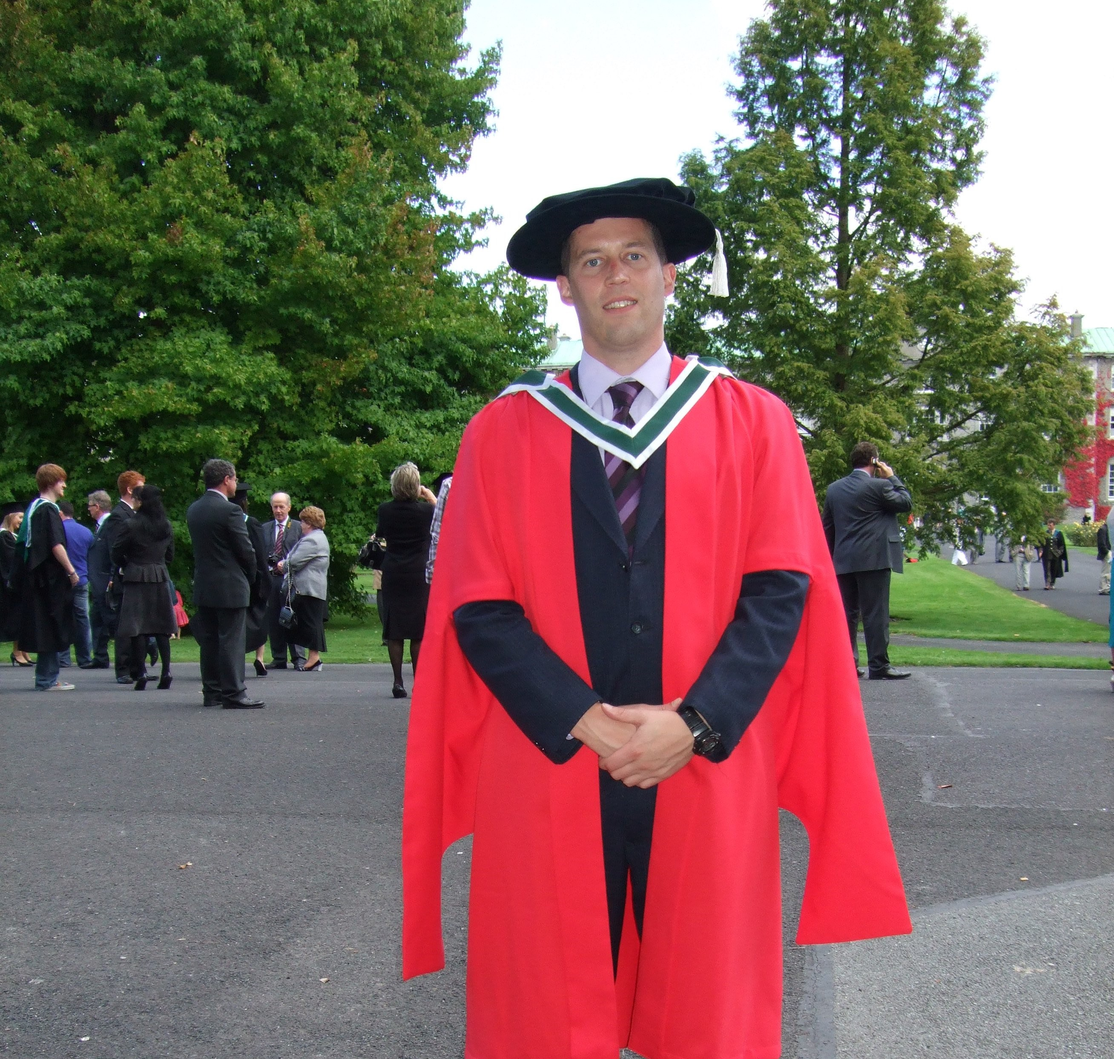
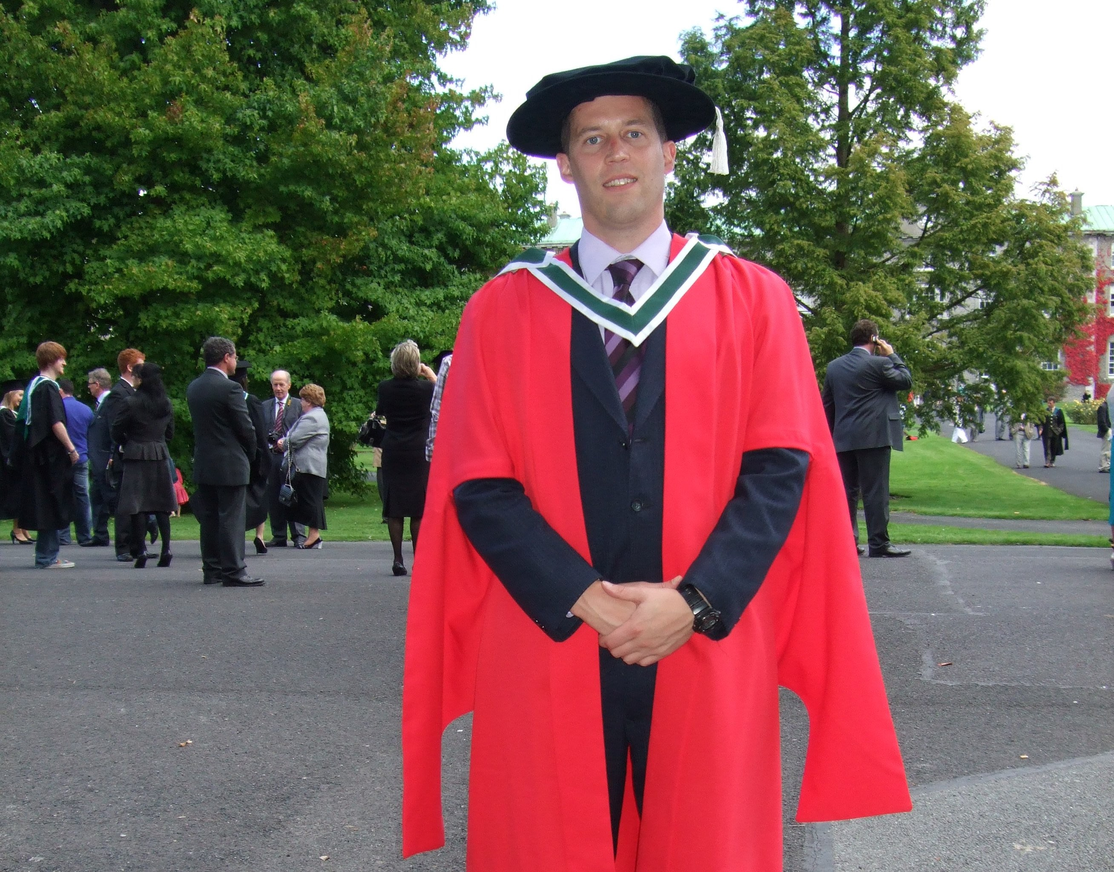
Tidy up content and tweak style for about

diff --git a/about.html b/about.html
@@ -67,7 +67,7 @@
             <p>Born and bred in Co. Sligo Ireland, history has always held a deep fascination for me, as I wished to
                 know why things around me were the way they were, and how we had arrived at this point in
                 human development. I found myself devouring books and journals on National and World History from a
-                young age. This love was kindled by my old history teacher Michael Kilcoyne and then further nurtured in
+                young age. This love was kindled by my old history teacher and then further nurtured in
                 my
                 Summerhill College History Class, of which I have many great memories. </p>
         </div>
@@ -79,7 +79,7 @@
                 level. My first port of call was NUI Galway, where I was awarded a B.A and an M.A
                 in Culture & Colonialism, as well as a Higher Diploma in Education, and a Fellowship in the National
                 University of Ireland. I then decided to pursue a PhD, the subject of which was my first work on Sligo
-                "The Prodestant Community in Sligo 1914-49". This was carried out in NUI Maynooth under the
+                "The Protestant Community in Sligo 1914-49". This was carried out in NUI Maynooth under the
                 supervision of Professor Emeritus RV Comerford, to whom I am eternally grateful. I have also
                 since achieved a M.A in Military HIstory and a M.A in Education. </p>
         </div>

diff --git a/assets/css/style.css b/assets/css/style.css
@@ -183,10 +183,10 @@ h2 {
 }
 
 .about-me img {
+    object-fit: cover;
     height: 100%;
     width: 100%;
-    object-fit: cover;
-    border-radius: 5%;
+    border-radius: 8%;
 }
 
 #credit {
@@ -486,8 +486,8 @@ footer a {
 
     .about-me > div {
         clear: both;
-        width: 90%;
-        margin: 5%;
+        width: 60%;
+        margin: 20px 20%;
     }
 
     #books-main div {
@@ -499,6 +499,7 @@ footer a {
     #books-main img {
         clear: both;
         width: 40%;
+        height: auto;
         margin: 20px 30%;
         padding: 0;
     }
@@ -516,5 +517,13 @@ footer a {
         margin: 0 20%;
         padding: 0;
     }
+
+}
+
+/* for smaller screen sizes 800px and down */
+
+@media screen and (max-width: 800px) {
+
+
 
 }
